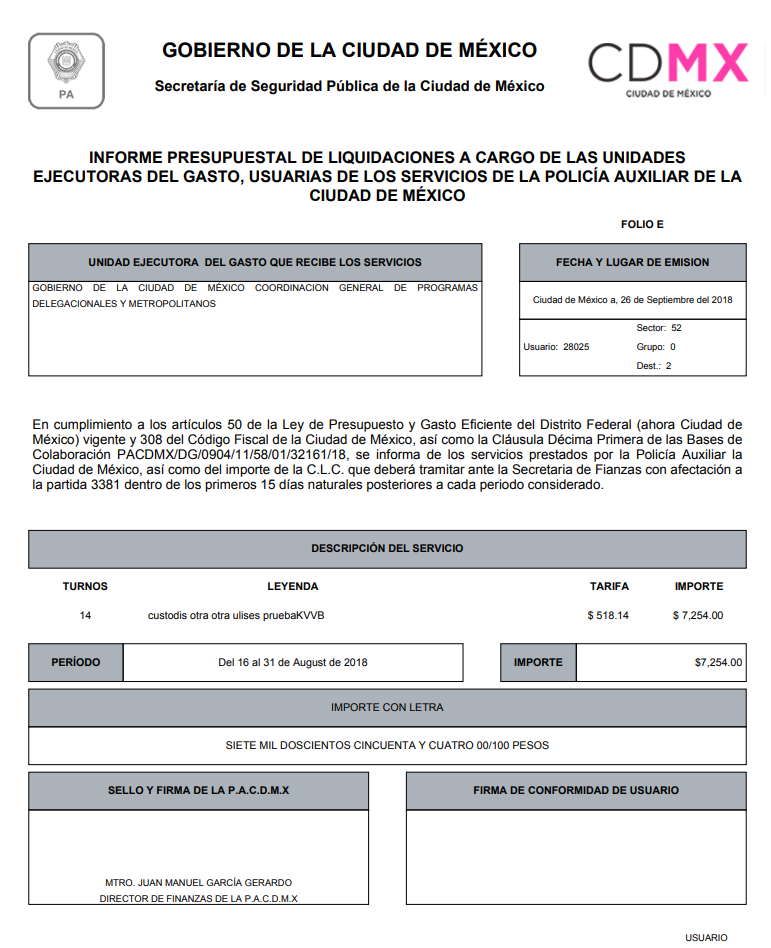
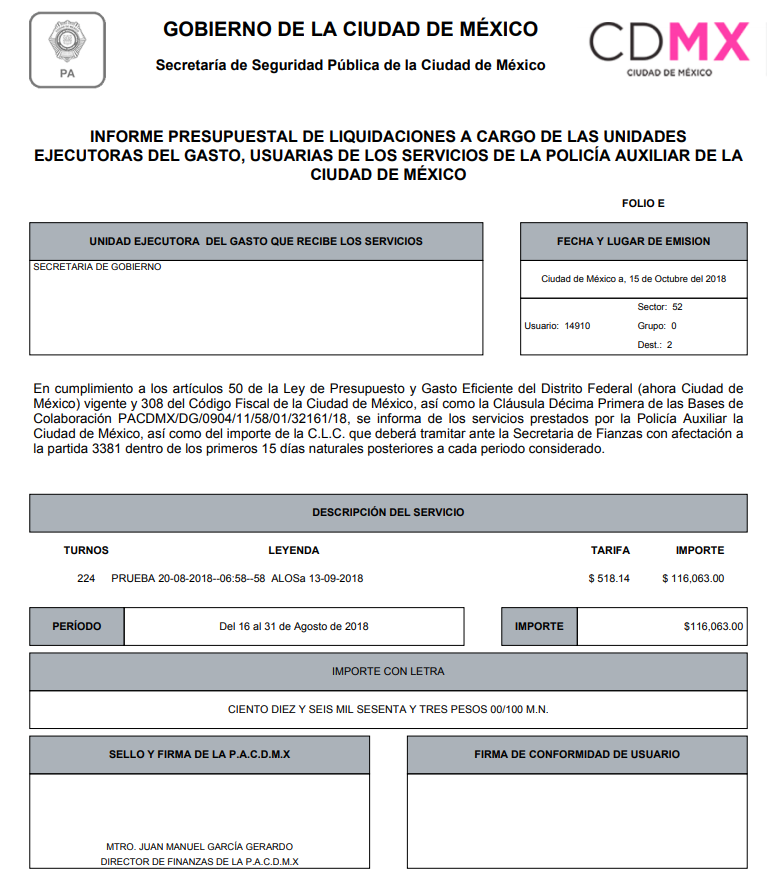
mario_151018

diff --git a/includes/FACTURACION/sec_solicitudes.php b/includes/FACTURACION/sec_solicitudes.php
@@ -377,25 +377,6 @@ if(@$ftn>0){
 						$html.="<td $count_principal  align='center' style='vertical-align: middle;' ><a style='color:#337ab7;' href='../includes/facturacion/pdf_informe_presupuestal_7.php?ayo=$ayo&qna=$qna&usuario=$principal' target='_blank' data-toggle='modal' ><center><img src='../dist/img/pdf.png' width='25px'></center></a></td>";
 					}
 
-					else if(@$c_form==8 and @$c_fact>10){
-						$html.="<td $count_principal  align='center' style='vertical-align: middle;' ><a style='color:#337ab7;' href='../includes/facturacion/pdf_informe_presupuestal_8.php?ayo=$ayo&qna=$qna&usuario=$principal' target='_blank' data-toggle='modal' ><center><img src='../dist/img/pdf.png' width='25px'></center></a></td>";
-					}
-
-					else if(@$c_form==9 and @$c_fact>10){
-						$html.="<td $count_principal  align='center' style='vertical-align: middle;' ><a style='color:#337ab7;' href='../includes/facturacion/pdf_informe_presupuestal_9.php?ayo=$ayo&qna=$qna&usuario=$principal' target='_blank' data-toggle='modal' ><center><img src='../dist/img/pdf.png' width='25px'></center></a></td>";
-					}
-
-					else if(@$c_form==10 and @$c_fact>10){
-						$html.="<td $count_principal  align='center' style='vertical-align: middle;' ><a style='color:#337ab7;' href='../includes/facturacion/pdf_informe_presupuestal_10.php?ayo=$ayo&qna=$qna&usuario=$principal' target='_blank' data-toggle='modal' ><center><img src='../dist/img/pdf.png' width='25px'></center></a></td>";
-					}
-
-					else if(@$c_form==11 and @$c_fact>10){
-						$html.="<td $count_principal  align='center' style='vertical-align: middle;' ><a style='color:#337ab7;' href='../includes/facturacion/pdf_informe_presupuestal_11.php?ayo=$ayo&qna=$qna&usuario=$principal' target='_blank' data-toggle='modal' ><center><img src='../dist/img/pdf.png' width='25px'></center></a></td>";
-					}
-
-					else if(@$c_form==12 and @$c_fact>10){
-						$html.="<td $count_principal  align='center' style='vertical-align: middle;' ><a style='color:#337ab7;' href='../includes/facturacion/pdf_informe_presupuestal_12.php?ayo=$ayo&qna=$qna&usuario=$principal' target='_blank' data-toggle='modal' ><center><img src='../dist/img/pdf.png' width='25px'></center></a></td>";
-					}
 					else{
 						$html.="<td $count_principal  align='center' style='vertical-align: middle;' >-</a></td>";
 					}

diff --git a/includes/FACTURACION/pdf_informe_presupuestal_4.php b/includes/FACTURACION/pdf_informe_presupuestal_4.php
@@ -156,7 +156,7 @@ $sqltn_2="select [dbo].[CantidadConLetra] ($total) IMPORTE_LETRA";
 		$pdf->Ln(10);
 		
 		$pdf->Cell(30,10,utf8_decode("TURNOS"),0,0,'C',0);
-		$pdf->Cell(80,10,utf8_decode("LEYENDA"),0,0,'C',0);
+		$pdf->Cell(80,10,utf8_decode("CONCEPTO"),0,0,'C',0);
 		$pdf->Cell(50,10,utf8_decode("TARIFA"),0,0,'R',0);
 		$pdf->Cell(25,10,utf8_decode("IMPORTE"),0,0,'R',0);
 		
@@ -196,26 +196,19 @@ $sqltn_2="select [dbo].[CantidadConLetra] ($total) IMPORTE_LETRA";
 		
 		
 		
-		$pdf->Ln(12);
+		 $pdf->Ln(12);
 		$pdf->Cell(90,10,utf8_decode("SELLO Y FIRMA DE LA P.A.C.D.M.X"),1,0,'C',1);
 		$pdf->Cell(10,10,"",0,0,'C',0);
 		$pdf->Cell(90,10,utf8_decode("FIRMA DE CONFORMIDAD DE USUARIO"),1,0,'C',1);
 		$pdf->Ln(10);
-		$pdf->Cell(100,10,"",0,0,'C',0);
-		$pdf->Cell(90,10,utf8_decode(""),1,0,'C',0);
-		$pdf->Ln(10);
-		$pdf->Cell(100,10,"",0,0,'C',0);
-		$pdf->Cell(45,10,utf8_decode(""),1,0,'C',0);
-		$pdf->Cell(45,10,utf8_decode(""),1,0,'C',0);
-		$pdf->Ln(-20);
-		$pdf->Cell(90,30,utf8_decode(""),1,0,'C',0);
+		$pdf->Cell(90,25,utf8_decode(""),1,0,'C',0);
 		$pdf->Cell(10,20,"",0,0,'C',0);
-		$pdf->Cell(90,30,utf8_decode(""),1,0,'C',0);
+		$pdf->Cell(90,25,utf8_decode(""),1,0,'C',0);
 		$pdf->Ln(17);
 		$pdf->SetFont('Arial','',7);
-		$pdf->Cell(90,12,utf8_decode("MTRO. JUAN MANUEL GARCÍA GERARDO"),0,0,'C',0);
+		$pdf->Cell(90,5,utf8_decode("MTRO. JUAN MANUEL GARCÍA GERARDO"),0,0,'C',0);
 		$pdf->Ln(4);
-		$pdf->Cell(90,12,utf8_decode("DIRECTOR DE FINANZAS DE LA P.A.C.D.M.X"),0,0,'C',0);
+		$pdf->Cell(90,5,utf8_decode("DIRECTOR DE FINANZAS DE LA P.A.C.D.M.X"),0,0,'C',0);
 		$pdf->Ln(-11);
 		
 		

diff --git a/includes/FACTURACION/pdf_informe_presupuestal_3.php b/includes/FACTURACION/pdf_informe_presupuestal_3.php
@@ -151,7 +151,7 @@ $sqltn_2="select [dbo].[CantidadConLetra] ($total) IMPORTE_LETRA";
 
 
 		$pdf->SetFont('Arial','',10);
-		$pdf->Ln(25);
+		$pdf->Ln(31);
 		$pdf->MultiCell(190,4,utf8_decode("En cumplimiento a los artículos 50 de la Ley de Presupuesto y Gasto Eficiente del Distrito Federal (ahora Ciudad de México) vigente y 308 del Código Fiscal de la Ciudad de México, se informa de los servicios prestados por la Policía Auxiliar de la Ciudad México, así como del importe de la Cuenta por Liquidar Certificada que deberá tramitar ante la Secretaría de Finanzas con afectación a la partida 3381 dentro de los primeros 15 días naturales posteriores a cada periodo considerado."),0,'J');
 		$pdf->SetFont('Arial','B',8);
 		$pdf->Ln(10);
@@ -161,7 +161,7 @@ $sqltn_2="select [dbo].[CantidadConLetra] ($total) IMPORTE_LETRA";
 		$pdf->Ln(10);
 		
 		$pdf->Cell(30,10,utf8_decode("TURNOS"),0,0,'C',0);
-		$pdf->Cell(80,10,utf8_decode("LEYENDA"),0,0,'C',0);
+		$pdf->Cell(80,10,utf8_decode("CONCEPTO"),0,0,'C',0);
 		$pdf->Cell(50,10,utf8_decode("TARIFA"),0,0,'R',0);
 		$pdf->Cell(25,10,utf8_decode("IMPORTE"),0,0,'R',0);
 		

diff --git a/includes/FACTURACION/pdf_informe_presupuestal_6.php b/includes/FACTURACION/pdf_informe_presupuestal_6.php
@@ -156,7 +156,7 @@ $sqltn_2="select [dbo].[CantidadConLetra] ($total) IMPORTE_LETRA";
 		$pdf->Ln(10);
 		//if($formato==1 or $formato==4 or $formato==5 or $formato==6 or $formato==7){
 		$pdf->Cell(30,10,utf8_decode("TURNOS"),0,0,'C',0);
-		$pdf->Cell(80,10,utf8_decode("LEYENDA"),0,0,'C',0);
+		$pdf->Cell(80,10,utf8_decode("CONCEPTO"),0,0,'C',0);
 		$pdf->Cell(50,10,utf8_decode("TARIFA"),0,0,'R',0);
 		$pdf->Cell(25,10,utf8_decode("IMPORTE"),0,0,'R',0);
 		//}if($formato==3){

diff --git a/includes/FACTURACION/pdf_informe_presupuestal_7.php b/includes/FACTURACION/pdf_informe_presupuestal_7.php
@@ -156,7 +156,7 @@ $sqltn_2="select [dbo].[CantidadConLetra] ($total) IMPORTE_LETRA";
 		$pdf->Ln(10);
 		//if($formato==1 or $formato==4 or $formato==5 or $formato==6 or $formato==7){
 		$pdf->Cell(30,10,utf8_decode("TURNOS"),0,0,'C',0);
-		$pdf->Cell(80,10,utf8_decode("LEYENDA"),0,0,'C',0);
+		$pdf->Cell(80,10,utf8_decode("CONCEPTO"),0,0,'C',0);
 		$pdf->Cell(50,10,utf8_decode("TARIFA"),0,0,'R',0);
 		$pdf->Cell(25,10,utf8_decode("IMPORTE"),0,0,'R',0);
 		//}if($formato==3){

diff --git a/includes/FACTURACION/pdf_informe_presupuestal_1.php b/includes/FACTURACION/pdf_informe_presupuestal_1.php
@@ -162,7 +162,7 @@ $sqltn_2="select [dbo].[CantidadConLetra] ($total) IMPORTE_LETRA";
 		$pdf->Ln(10);
 		
 		$pdf->Cell(30,10,utf8_decode("TURNOS"),0,0,'C',0);
-		$pdf->Cell(80,10,utf8_decode("LEYENDA"),0,0,'C',0);
+		$pdf->Cell(80,10,utf8_decode("CONCEPTO"),0,0,'C',0);
 		$pdf->Cell(50,10,utf8_decode("TARIFA"),0,0,'R',0);
 		$pdf->Cell(25,10,utf8_decode("IMPORTE"),0,0,'R',0);
 		

diff --git a/includes/FACTURACION/pdf_informe_presupuestal_2.php b/includes/FACTURACION/pdf_informe_presupuestal_2.php
@@ -161,7 +161,7 @@ $sqltn_2="select [dbo].[CantidadConLetra] ($total) IMPORTE_LETRA";
 		$pdf->Ln(10);
 		
 		$pdf->Cell(30,10,utf8_decode("TURNOS"),0,0,'C',0);
-		$pdf->Cell(80,10,utf8_decode("LEYENDA"),0,0,'C',0);
+		$pdf->Cell(80,10,utf8_decode("CONCEPTO"),0,0,'C',0);
 		$pdf->Cell(50,10,utf8_decode("TARIFA"),0,0,'R',0);
 		$pdf->Cell(25,10,utf8_decode("IMPORTE"),0,0,'R',0);
 		

diff --git a/includes/FACTURACION/pdf_informe_presupuestal_5.php b/includes/FACTURACION/pdf_informe_presupuestal_5.php
@@ -161,7 +161,7 @@ $sqltn_2="select [dbo].[CantidadConLetra] ($total) IMPORTE_LETRA";
 		$pdf->Ln(10);
 		
 		$pdf->Cell(30,10,utf8_decode("TURNOS"),0,0,'C',0);
-		$pdf->Cell(80,10,utf8_decode("LEYENDA"),0,0,'C',0);
+		$pdf->Cell(80,10,utf8_decode("CONCEPTO"),0,0,'C',0);
 		$pdf->Cell(50,10,utf8_decode("TARIFA"),0,0,'R',0);
 		$pdf->Cell(25,10,utf8_decode("IMPORTE"),0,0,'R',0);
 		
